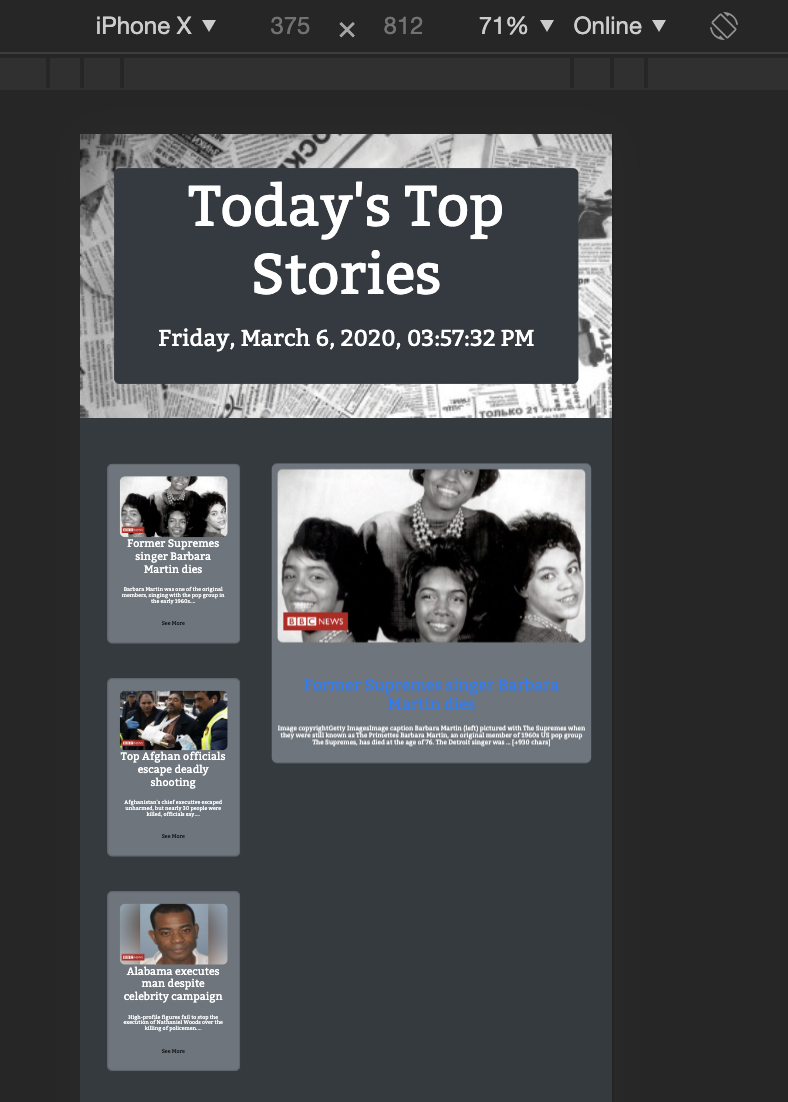
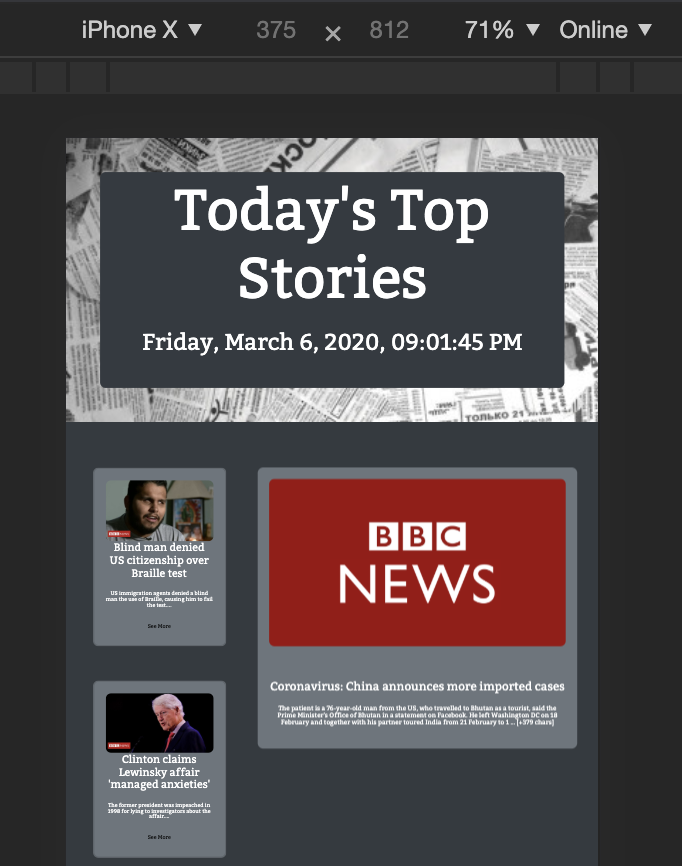
Change link color

diff --git a/allArticles.js b/allArticles.js
@@ -32,9 +32,9 @@ function readArticle(index){
     .then((response) =>{
         return response.json();
     }).then((data) => {
-    output2.innerHTML = "<center><div class = 'bg-secondary rounded p-1 mx-auto'><img class ='rounded' id='articleImage2'"+
+    output2.innerHTML = "<center><div class = 'bg-secondary rounded p-2 mx-auto'><img class ='rounded' id='articleImage2'"+
                         "src="+`${imageUrl(data.articles[index].urlToImage)}`+"></img>"+
-                        "<br><br><h1 id ='title2'><a href="+ `${data.articles[index].url}`+">"+
+                        "<br><br><h1 id ='title2'><a class= 'text-white' href="+ `${data.articles[index].url}`+">"+
                         `${data.articles[index].title}`+"</a></h1>"+
                         "<h4 id='article'>" + `${data.articles[index].content}`+"<h4></div></center>"
   })

diff --git a/styles.css b/styles.css
@@ -65,6 +65,7 @@
 
 #title2 {
     padding-top: 0;
+    font-size: 2.2vw
 }
 
 #article {
